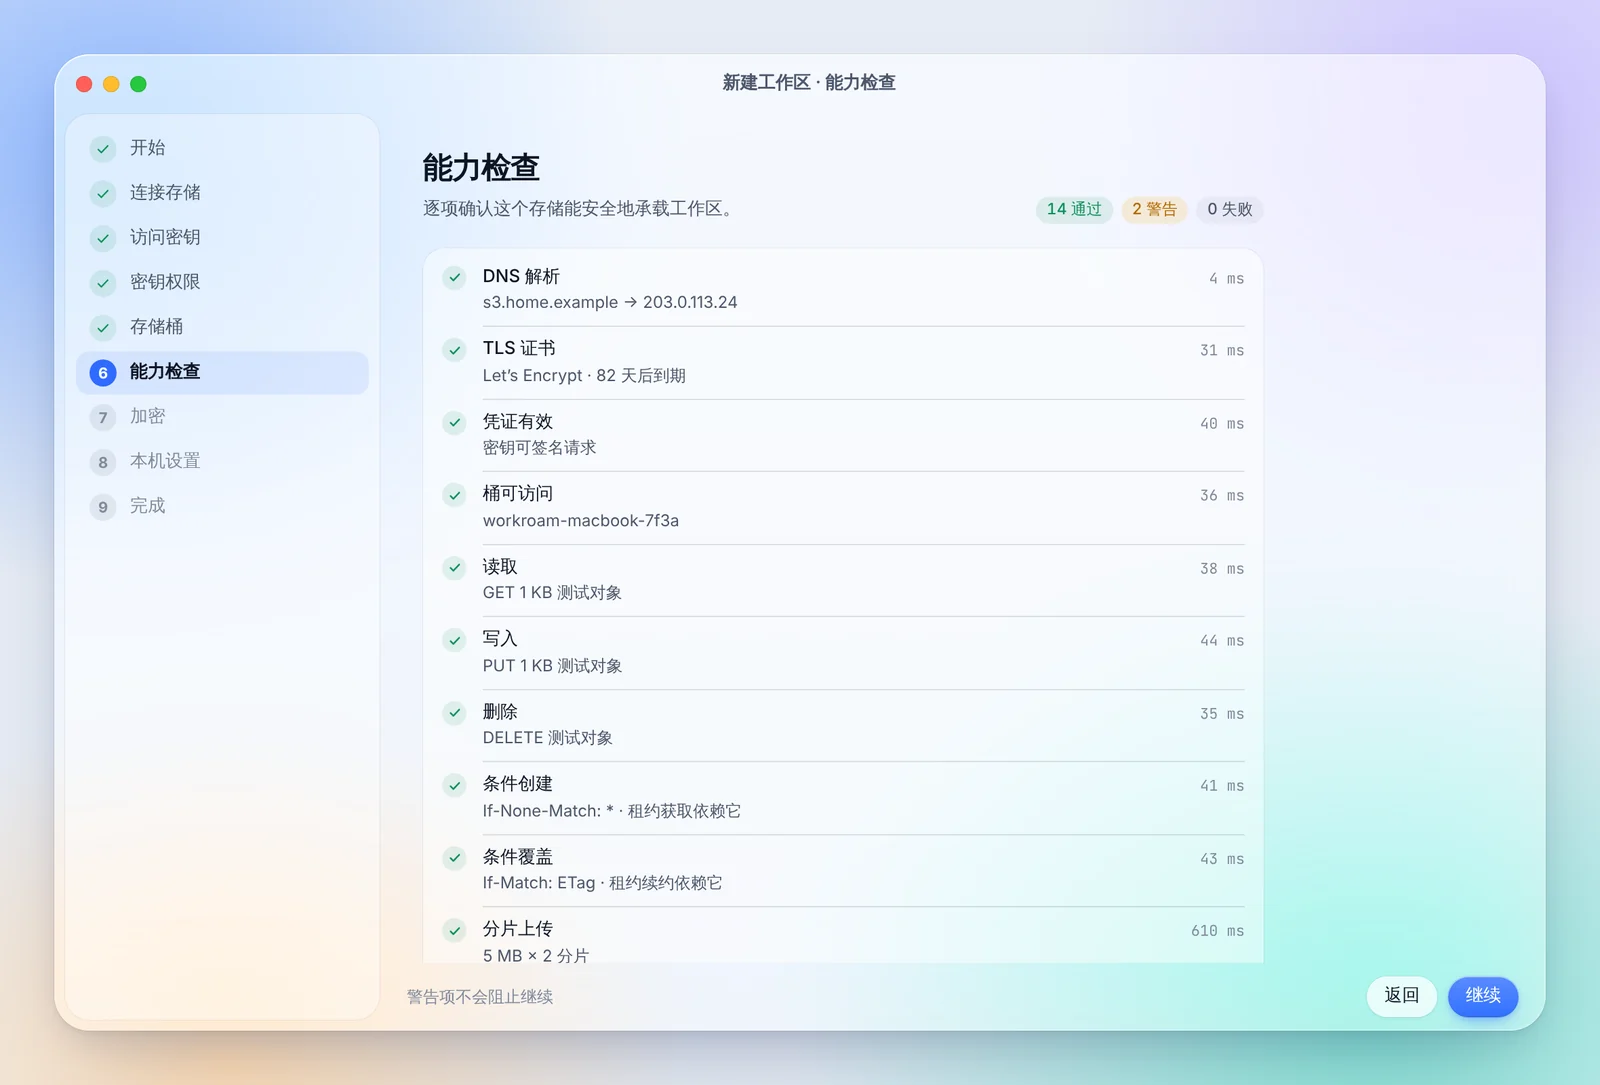
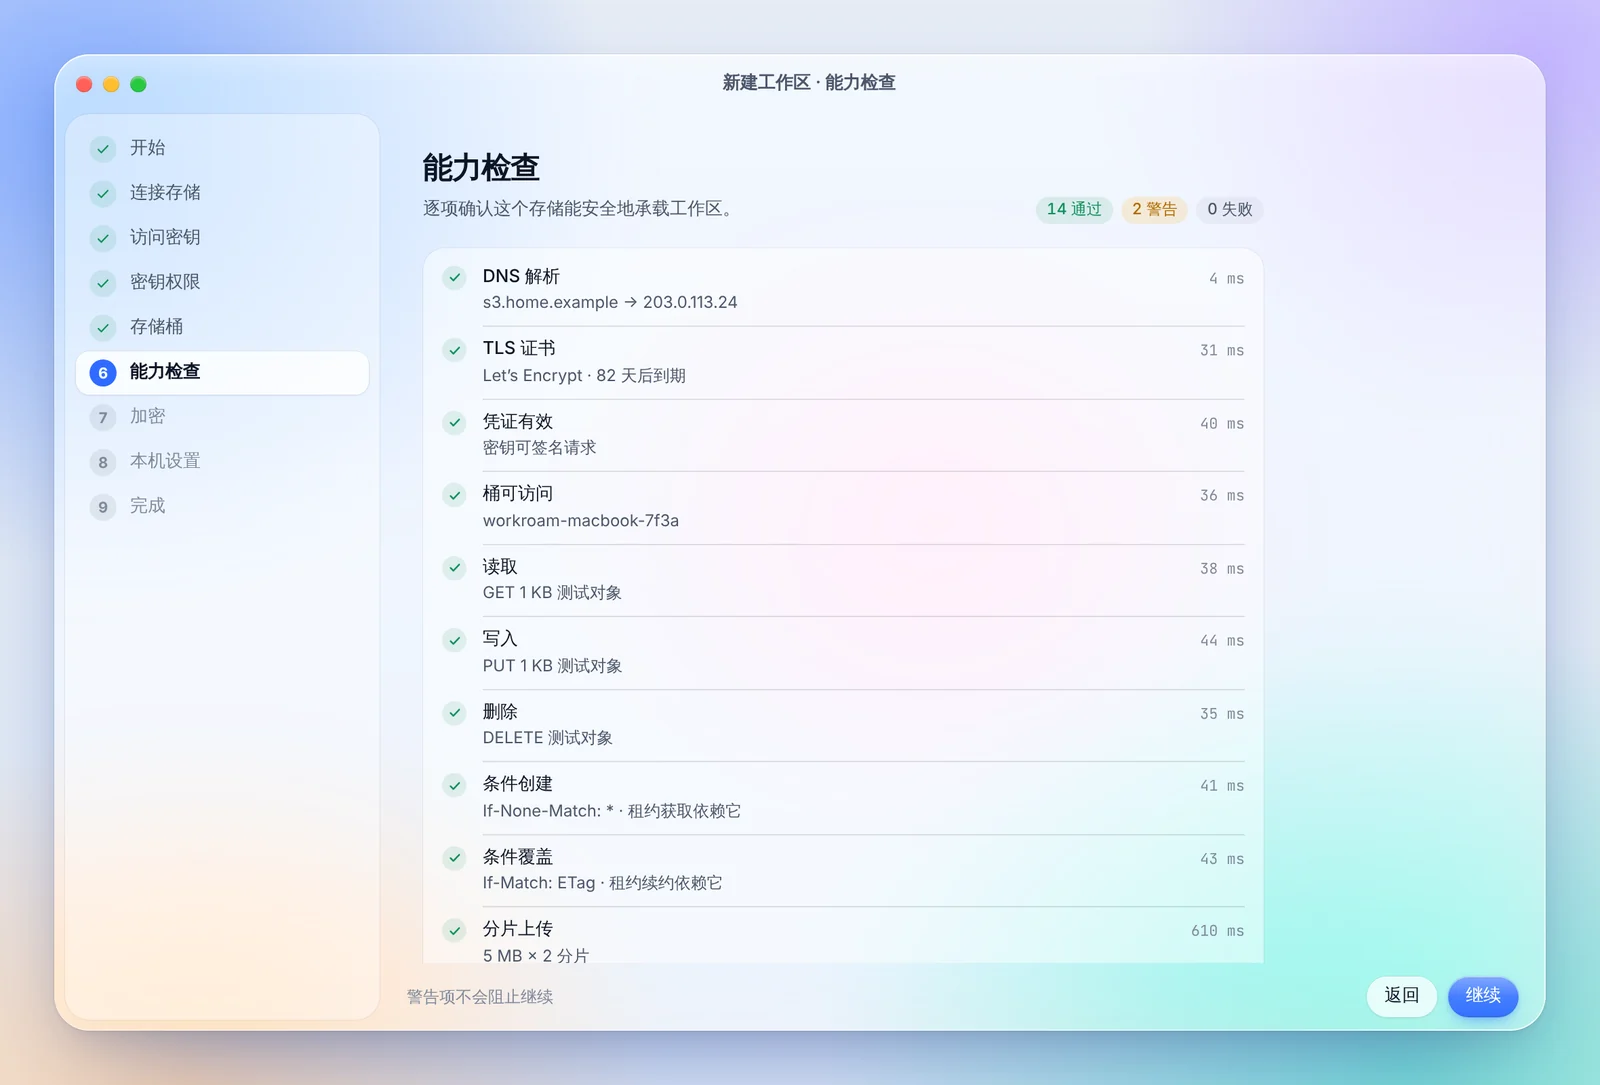
docs(prototype): second polish pass on the liquid glass UI
- Glass reads as thick lenses: top lip, inner light, darker bottom return;
  the rim and a soft glow follow the pointer
- Richer wallpaper with a fifth colour and film grain; the window picks up
  ambient colour from it
- Sliding glass indicator for the tab bar and every segmented control;
  liquid switches; raised-glass selected states; scene entrance stagger;
  progress sheen
- Project detail opens with a relay strip (office -> storage -> home) that
  puts the amber workspace orb on the lease holder, animates pending data
  and shows the key numbers; per-project tiles
- Wizard welcome step shows the orb riding the route; tray scene gets a
  desktop wallpaper and a glass Dock; larger brand title with icon glow
- DESIGN.md: material, motion and relay rules; README screenshots refreshed

Claude-Session: https://claude.ai/code/session_01FP2eoDg5LfRuRmSZgRWu3e

diff --git a/docs/prototype/index.html b/docs/prototype/index.html
@@ -637,8 +637,8 @@ input[type=range]{accent-color:var(--accent);width:150px}
   radial-gradient(40% 50% at 30% 20%,#B79CFF,transparent 65%),
   linear-gradient(160deg,#5D7BFF,#7FC8F2 55%,#9BE7D7)}
 :root{--desk-shade:0}
-@media (prefers-color-scheme: dark){:root:not([data-theme="light"]){--desk-shade:.5}}
-:root[data-theme="dark"]{--desk-shade:.5}
+@media (prefers-color-scheme: dark){:root:not([data-theme="light"]){--desk-shade:.4}}
+:root[data-theme="dark"]{--desk-shade:.4}
 .desk{position:relative}
 .desk-body{padding-bottom:96px}
 .dock{--r:22px;position:absolute;left:50%;bottom:14px;transform:translateX(-50%);display:flex;align-items:center;gap:8px;padding:7px}
@@ -1583,14 +1583,18 @@ function placeInd(box){
   ind.style.width=on.offsetWidth+'px'; ind.style.transform=`translateX(${on.offsetLeft}px)`;
   if(ind.classList.contains('instant')) requestAnimationFrame(()=>requestAnimationFrame(()=>ind.classList.remove('instant')));
 }
-const indIO=new IntersectionObserver(es=>es.forEach(e=>{if(e.isIntersecting)placeInd(e.target)}));
-function watchInd(root){ $$('.seg,.tabs',root).forEach(b=>{ if(!b.dataset.ind){b.dataset.ind='1';indIO.observe(b);} placeInd(b); }); }
+// Controls can be hidden when first measured (other scene, closed sheet), so re-place every
+// indicator after anything is shown, added or re-selected. There are only a couple of dozen.
+let indRaf=0;
+const syncInd=()=>{ if(indRaf) return; indRaf=requestAnimationFrame(()=>{ indRaf=0; $$('.seg,.tabs').forEach(placeInd); }); };
 new MutationObserver(ms=>{ for(const m of ms){
-  if(m.type==='attributes'){ const box=m.target.parentElement; if(box&&box.matches('.seg,.tabs')) placeInd(box); continue; }
-  for(const n of m.addedNodes) if(n.nodeType===1&&!n.matches('.ind')&&(n.matches('.seg,.tabs')||n.querySelector('.seg'))) watchInd(n.parentNode||n);
-}}).observe(document.body,{childList:true,subtree:true,attributes:true,attributeFilter:['class','aria-current']});
-addEventListener('resize',()=>$$('.has-ind').forEach(placeInd));
-document.fonts&&document.fonts.ready.then(()=>$$('.has-ind').forEach(placeInd));
+  if(m.type==='attributes'&&m.attributeName!=='hidden'){ const box=m.target.parentElement; if(box&&box.matches('.seg,.tabs')) placeInd(box); continue; }
+  if(m.type==='childList'&&![...m.addedNodes].some(n=>n.nodeType===1&&!n.matches('.ind'))) continue;
+  syncInd();
+}}).observe(document.body,{childList:true,subtree:true,attributes:true,attributeFilter:['class','aria-current','hidden']});
+addEventListener('resize',syncInd);
+document.fonts&&document.fonts.ready.then(syncInd);
+syncInd();
 
 /* ---------- pointer light on glass ---------- */
 let litEl=null;

diff --git a/docs/prototype/DESIGN.md b/docs/prototype/DESIGN.md
@@ -35,7 +35,7 @@
 
 - 不用 1px 实线框。边缘用 **0.5px 色环**（`0 0 0 .5px var(--ring)`），深度用 **多层带蓝色调的柔和阴影**，不用纯黑。
 - 三档阴影：`--sh-1` 控件，`--sh-2` 卡片，`--sh-3` 窗口与悬浮层（色环 + 2px + 28px + 80px 四层）。
-- 玻璃表面：自上而下的渐变底色、`blur(32px) saturate(165%)`，顶部 0.5px 高光，外加左上亮、右下弱的镜面描边。
+- 玻璃表面：自上而下的渐变底色、`blur(36px) saturate(180%)`，外加左上亮、右下弱的镜面描边。具体做法见第 9 节“材质”。
 - 区域分隔优先靠留白和底色差；必须分隔时用 **0.5px、带缩进** 的分隔线，与文字左缘对齐，不贯穿整行。
 - 不再做“卡片里套卡片”：项目详情直接放在窗口上，只有确实成组的内容（代码仓库、检查项、设备、设置）才放进分组底板。
 
@@ -81,8 +81,30 @@
 - 统一缓出曲线 `cubic-bezier(.23, 1, .32, 1)`；悬停与按下 140–160ms，弹窗与卡片 260–340ms。
 - 按下 `scale(.97)`；卡片从 `scale(.97)` + 16px 位移进入，不从 0 放大，不回弹。
 - 状态变化用 `transition`，保证可中断；尊重 `prefers-reduced-motion`。
+- **会移动的指示器**用带轻微回弹的曲线 `--spring: cubic-bezier(.34, 1.32, .52, 1)`，时长 380–420ms。只用于导航与分段控件的玻璃滑块、开关的圆钮；其他元素仍然不回弹。
+- 开关按下时圆钮横向拉长 5px，松开回弹，像一滴液体。
+- 场景切换时内容上移 10px 淡入，子元素依次延迟 50ms。
+- 进度条上有一道循环扫过的高光，表示“正在进行”。
 
 ## 8. 点击区域
 
 - 窗口内按钮高 30（小号 26），侧栏条目 30，菜单项 26，输入框 32；不小于 26。
 - 角落卡片不设回车默认按钮，不抢键盘焦点（PRD UX-05）。
+
+## 9. 材质：液态玻璃
+
+- **厚度感**：玻璃不只是半透明底色。顶部 1px 亮边（`--lens-hi`），亮边下方一层向内渐隐的光（`inset 0 18px 28px -24px`），底部一层向内的暗边（`--lens-lo`）。三层叠在一起，面板读起来像有厚度的透镜。
+- **指针高光**：指针在玻璃上移动时，描边在靠近指针的位置变亮（220px 半径），面板内部有一团很淡的光跟随指针（360px 半径，浅色 22%、深色 7%）。离开后 400ms 淡出。
+- **壁纸**：五个大色块的径向渐变，再叠一层约 7%（深色 11%）的胶片颗粒。颗粒能消除大面积渐变的色带，玻璃模糊后也更像真实桌面。
+- **窗口环境光**：窗口外阴影最外层带一点壁纸的蓝色，让窗口和背景融在一起。
+- **选中态是凸起的玻璃**：侧栏、向导步骤、导航、分段控件的选中项，用更亮的玻璃加顶部亮边，而不是一块平的强调色。
+
+## 10. 接力路线
+
+主窗口项目详情的顶部，用“公司电脑 → 你的存储 → 家里电脑”三站点表示工作区现在在哪里：
+
+- 琥珀色光点（工作区）停在持有租约的那一站；没人持有时停在存储。
+- 有数据等待推送或拉取时，对应的连线上有流动的白色虚线，方向就是数据的方向；暂停同步时连线变成红色虚线。
+- 下方一行关键数字（待推送文件、改动大小、提交数、预计用时，或新文件、新提交、租约未续约时长、最新快照），数字 20px / 700，单位缩小成 12px。
+- 向导欢迎页用同一条路线做说明，光点沿路线往返漫游。
+

diff --git a/docs/prototype/README.md b/docs/prototype/README.md
@@ -14,9 +14,9 @@
 | --- | --- | --- |
 | 品牌 | `index.html#brand` | Logo、应用图标尺寸、托盘模板图标三态、色彩、材质、字体层级、基础组件 |
 | 初始化向导 | `index.html#setup` | PRD 7.1、ONB-01 – ONB-09：新建工作区 8 步（存储预设、访问密钥、密钥权限、存储桶、16 项能力检查、加密密码与恢复密钥确认、本机设置、配对码与二维码）；加入已有工作区（配对码、加密密码、从异地备份恢复后作为原设备加入、检查、本机设置、按项目选择本机目录） |
-| 主窗口 | `index.html#app` | 项目列表与详情（租约、目录锁定、目录不存在、待拉取时更换目录、未添加到本机、代码仓库同步模式、项目级自动同步与 Agent 确认覆盖、HANDOFF.md）、接入项目、在本机移除项目、同步历史与恢复、归档列表（搜索、导出 / 导入归档包）与 7 种恢复场景、删除归档、设备与配对、检查（`doctor`，含校验数据完整性）、设置（本机、自动同步、通知、Agent、存储与快照保留、加密密码与恢复密钥、异地备份） |
+| 主窗口 | `index.html#app` | 项目列表与详情（接力路线：工作区在哪台机器、待推送 / 待拉取的数据，租约、目录锁定、目录不存在、待拉取时更换目录、未添加到本机、代码仓库同步模式、项目级自动同步与 Agent 确认覆盖、HANDOFF.md）、接入项目、在本机移除项目、同步历史与恢复、归档列表（搜索、导出 / 导入归档包）与 7 种恢复场景、删除归档、设备与配对、检查（`doctor`，含校验数据完整性）、设置（本机、自动同步、通知、Agent、存储与快照保留、加密密码与恢复密钥、异地备份） |
 | 卡片 | `index.html#cards` | UX-01 – UX-05、LEASE-03：授权、进度、完成、失败（常驻）、到达、租约冲突；可切换 macOS 右上 / Windows 右下，并演示一次完整推送；授权卡“查看详情”打开授权详情窗口（改动文件、提交、拒绝 / 稍后 / 同意） |
-| 托盘菜单 | `index.html#tray` | 托盘图标三态与菜单，待确认授权数，暂停后恢复自动同步 |
+| 托盘菜单 | `index.html#tray` | 托盘图标三态与菜单（放在带壁纸和 Dock 的桌面上），待确认授权数，暂停后恢复自动同步 |
 
 原型中的数据（设备、项目、快照、二维码等）都是示例，二维码只是示意图形。
 
